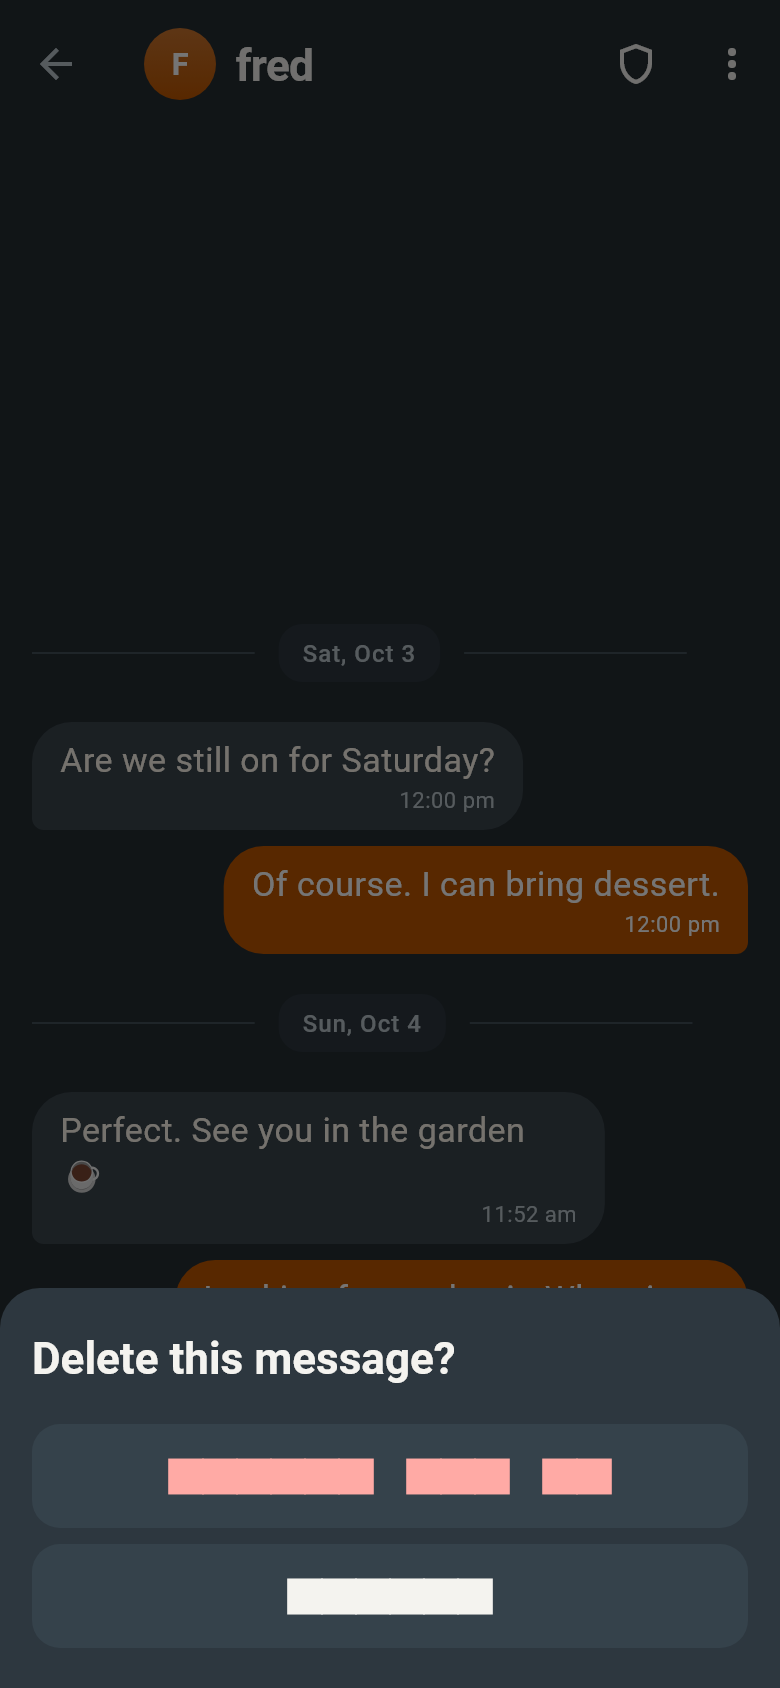
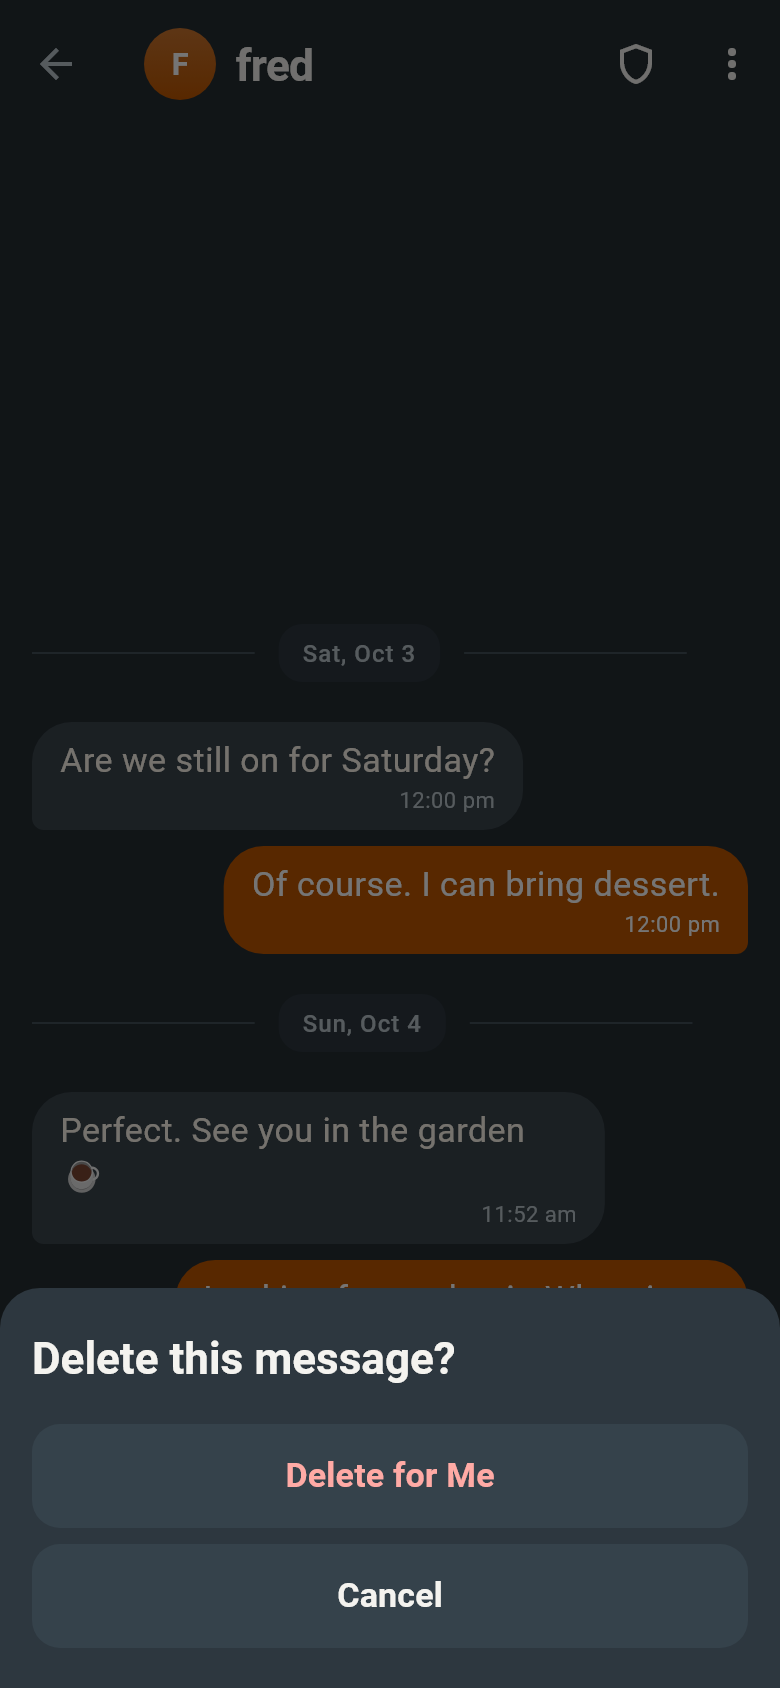
Keep the message menu solid and forward to half the page
The action list was translucent, so the bubble colour showed through the rows.
The delete buttons replaced the theme face, so the review drew each word as a bar.
Forward covered almost the whole screen. The menu is now an opaque panel, the
labels keep the theme face, and the forward sheet covers about half the chat.

Assisted-by: Grok

Changed region(s): [[0.2154, 0.8626, 0.8, 0.8934], [0.3692, 0.9242, 0.6462, 0.955]]

diff --git a/lib/src/view/chat/message_actions_overlay.dart b/lib/src/view/chat/message_actions_overlay.dart
@@ -324,49 +324,45 @@ class MessageActionsOverlay extends StatelessWidget {
                             key: panelKey,
                             child: Material(
                               key: const Key('messageActionsPanel'),
-                              color: panel.withValues(alpha: .92),
+                              // Solid. A translucent panel, or a blur of its
+                              // own, paints the bubble colour through the rows.
+                              color: panel,
                               elevation: 0,
                               shadowColor: Colors.transparent,
                               borderRadius: BorderRadius.circular(
                                 MessageMenuMetrics.menuRadius,
                               ),
                               clipBehavior: Clip.antiAlias,
-                              child: BackdropFilter(
-                                filter: ui.ImageFilter.blur(
-                                  sigmaX: 24,
-                                  sigmaY: 24,
-                                ),
-                                child: _HoldTracker(
-                                  onPoint: (point) => highlight(rowAt(point)),
-                                  onRelease: () {
-                                    final chosen = gesture?.highlighted.value;
-                                    gesture?.highlighted.value = null;
-                                    if (chosen != null && !chosen.reaction) {
-                                      choose(chosen);
-                                    }
-                                  },
-                                  child: SingleChildScrollView(
-                                    child: Column(
-                                      mainAxisSize: MainAxisSize.min,
-                                      crossAxisAlignment:
-                                          CrossAxisAlignment.stretch,
-                                      children: [
-                                        for (final (index, action)
-                                            in actions.indexed)
-                                          MessageActionHighlight(
-                                            key: targets[action],
+                              child: _HoldTracker(
+                                onPoint: (point) => highlight(rowAt(point)),
+                                onRelease: () {
+                                  final chosen = gesture?.highlighted.value;
+                                  gesture?.highlighted.value = null;
+                                  if (chosen != null && !chosen.reaction) {
+                                    choose(chosen);
+                                  }
+                                },
+                                child: SingleChildScrollView(
+                                  child: Column(
+                                    mainAxisSize: MainAxisSize.min,
+                                    crossAxisAlignment:
+                                        CrossAxisAlignment.stretch,
+                                    children: [
+                                      for (final (index, action)
+                                          in actions.indexed)
+                                        MessageActionHighlight(
+                                          key: targets[action],
+                                          action: action,
+                                          gesture: gesture,
+                                          child: MessageMenuRow(
                                             action: action,
-                                            gesture: gesture,
-                                            child: MessageMenuRow(
-                                              action: action,
-                                              autofocus: index == 0,
-                                              divider:
-                                                  index != actions.length - 1,
-                                              onPressed: () => choose(action),
-                                            ),
+                                            autofocus: index == 0,
+                                            divider:
+                                                index != actions.length - 1,
+                                            onPressed: () => choose(action),
                                           ),
-                                      ],
-                                    ),
+                                        ),
+                                    ],
                                   ),
                                 ),
                               ),

diff --git a/lib/src/view/chat/forward/forward_message.dart b/lib/src/view/chat/forward/forward_message.dart
@@ -56,10 +56,21 @@ Future<void> forwardMessages(
       context: context,
       isScrollControlled: true,
       backgroundColor: Colors.transparent,
-      builder: (_) => FractionallySizedBox(
-        heightFactor: 0.92,
-        child: ForwardMessageScreen(message: message, messages: messages),
-      ),
+      builder: (ctx) {
+        final height = MediaQuery.sizeOf(ctx).height * 0.55;
+        return Align(
+          alignment: Alignment.bottomCenter,
+          child: SizedBox(
+            height: height,
+            child: ClipRRect(
+              borderRadius: const BorderRadius.vertical(
+                top: Radius.circular(20),
+              ),
+              child: ForwardMessageScreen(message: message, messages: messages),
+            ),
+          ),
+        );
+      },
     );
   }
 }
@@ -211,18 +222,22 @@ class _ForwardMessageScreenState extends ConsumerState<ForwardMessageScreen> {
       );
     }
     final t = FireplaceUiTokens.of(context);
+    final sheet = ModalRoute.of(context) is ModalBottomSheetRoute;
     return PopScope(
       canPop: true,
       child: Scaffold(
         backgroundColor: t.panel,
         body: SafeArea(
+          // A sheet is already clear of the status bar. Padding for it
+          // would open a gap at the top of the panel.
+          top: !sheet,
           child: Column(
             children: [
               Padding(
                 padding: const EdgeInsets.fromLTRB(8, 8, 8, 0),
                 child: Row(
                   children: [
-                    if (ModalRoute.of(context) is ModalBottomSheetRoute)
+                    if (sheet)
                       const SizedBox(width: 48)
                     else
                       IconButton(

diff --git a/scripts/render/render_screens_test.dart b/scripts/render/render_screens_test.dart
@@ -25,7 +25,6 @@ import 'package:fireplace/src/view/chat_list/chat_list_screen.dart';
 import 'package:fireplace/src/view/chat/chat_screen.dart';
 import 'package:fireplace/src/view/chat/chat_route_observer.dart';
 import 'package:fireplace/src/view/search/message_search_results.dart';
-import 'package:fireplace/src/view/chat/forward/forward_message.dart';
 import 'package:fireplace/src/view/notifications/in_app_notice.dart';
 import 'package:fireplace/src/view/settings/chat_appearance.dart';
 import 'package:fireplace/src/widgets/page.dart';
@@ -268,13 +267,7 @@ void main() {
     CatalogCase('chat-back-unread', const ChatScreen(chatId: 'alice_bob')),
     CatalogCase(
       'forward-message',
-      ForwardMessageScreen(
-        message: message(
-          id: 'source',
-          body: '**See you at two.**',
-          outgoing: true,
-        ),
-      ),
+      const ChatScreen(chatId: 'alice_fred'),
       prepare: (f) {
         f.chat.summaries = [
           ...f.chat.summaries,
@@ -282,6 +275,13 @@ void main() {
         ];
       },
       act: (t, f) async {
+        final target = find.byKey(const ValueKey('messageBubble-4'));
+        await t.ensureVisible(target);
+        await t.pumpAndSettle();
+        await t.longPress(target);
+        await t.pumpAndSettle();
+        await t.tap(find.byKey(const ValueKey('messageAction-forward')));
+        await t.pumpAndSettle();
         await t.tap(find.byKey(const ValueKey('forwardRecipient-alice_bob')));
         await t.pump();
       },

diff --git a/lib/src/view/chat/message_delete_sheet.dart b/lib/src/view/chat/message_delete_sheet.dart
@@ -117,13 +117,23 @@ Future<T?> showFireplaceActionSheet<T>(
                         shape: RoundedRectangleBorder(
                           borderRadius: BorderRadius.circular(14),
                         ),
-                        textStyle: const TextStyle(
-                          fontSize: 17,
-                          fontWeight: FontWeight.w600,
-                        ),
                       ),
                       onPressed: () => Navigator.pop(ctx, action.value),
-                      child: Text(action.label),
+                      // The label keeps the theme face. A text style on the
+                      // button replaces that face, and the preview then draws
+                      // each word as a solid bar. Large text scales down to
+                      // one line so the whole label stays visible.
+                      child: FittedBox(
+                        fit: BoxFit.scaleDown,
+                        child: Text(
+                          action.label,
+                          textAlign: TextAlign.center,
+                          style: const TextStyle(
+                            fontSize: 17,
+                            fontWeight: FontWeight.w600,
+                          ),
+                        ),
+                      ),
                     ),
                   ),
                   const SizedBox(height: 8),

diff --git a/test/view/chat/forward/forward_sections_test.dart b/test/view/chat/forward/forward_sections_test.dart
@@ -63,4 +63,40 @@ void main() {
       isNotNull,
     );
   });
+
+  testWidgets('forward from a chat covers about half the page', (t) async {
+    t.view.physicalSize = const Size(390, 844);
+    t.view.devicePixelRatio = 1;
+    addTearDown(t.view.reset);
+    final f = UiFixture();
+    await f.seed();
+    addTearDown(f.session.close);
+    await t.pumpWidget(
+      ProviderScope(
+        overrides: f.overrides,
+        child: MaterialApp(
+          theme: fireplaceTheme(Brightness.dark),
+          home: Builder(
+            builder: (context) => Scaffold(
+              body: TextButton(
+                onPressed: () => forwardMessages(context, [
+                  message(id: '4', body: 'See you at two.', outgoing: true),
+                ]),
+                child: const Text('open'),
+              ),
+            ),
+          ),
+        ),
+      ),
+    );
+    await t.tap(find.text('open'));
+    await t.pumpAndSettle();
+    final panel = t.getRect(find.byType(ForwardMessageScreen));
+    expect(panel.height, closeTo(844 * 0.55, 1));
+    expect(panel.bottom, closeTo(844, 1));
+    expect(find.byTooltip('Back'), findsNothing);
+    expect(find.text('Cancel'), findsOneWidget);
+    expect(find.text('Recent Chats'), findsOneWidget);
+    expect(find.text('Stories'), findsNothing);
+  });
 }

diff --git a/test/view/chat/message_menu_presentation_test.dart b/test/view/chat/message_menu_presentation_test.dart
@@ -68,7 +68,8 @@ void main() {
         closeTo(id == '4' ? held.right : held.left, 1),
       );
       expect(panel.bottom, lessThanOrEqualTo(844 - 12));
-      expect(find.byType(BackdropFilter), findsNWidgets(2));
+      // The chat behind the focus is blurred. The menu panel is solid.
+      expect(find.byType(BackdropFilter), findsOneWidget);
       await t.tapAt(const Offset(380, 30));
       await t.pumpAndSettle();
       expect(action('copy'), findsNothing);

diff --git a/docs/reviews/signal-message-actions/README.md b/docs/reviews/signal-message-actions/README.md
@@ -25,8 +25,9 @@ Decision 0023 records the deletion change.
 ## Screenshots
 
 Flutter renders of fictional fixture data, UTC, with the installed Windows
-emoji font used only as a test fallback. The forward picture is the same
-screen the sheet shows; as a full page it also has a Back button.
+emoji font used only as a test fallback. The forward picture is the sheet
+over the chat, about half the page. It has Cancel, Recent Chats, then People.
+There is no Stories section and no Back button.
 
 | State | Render |
 | --- | --- |
